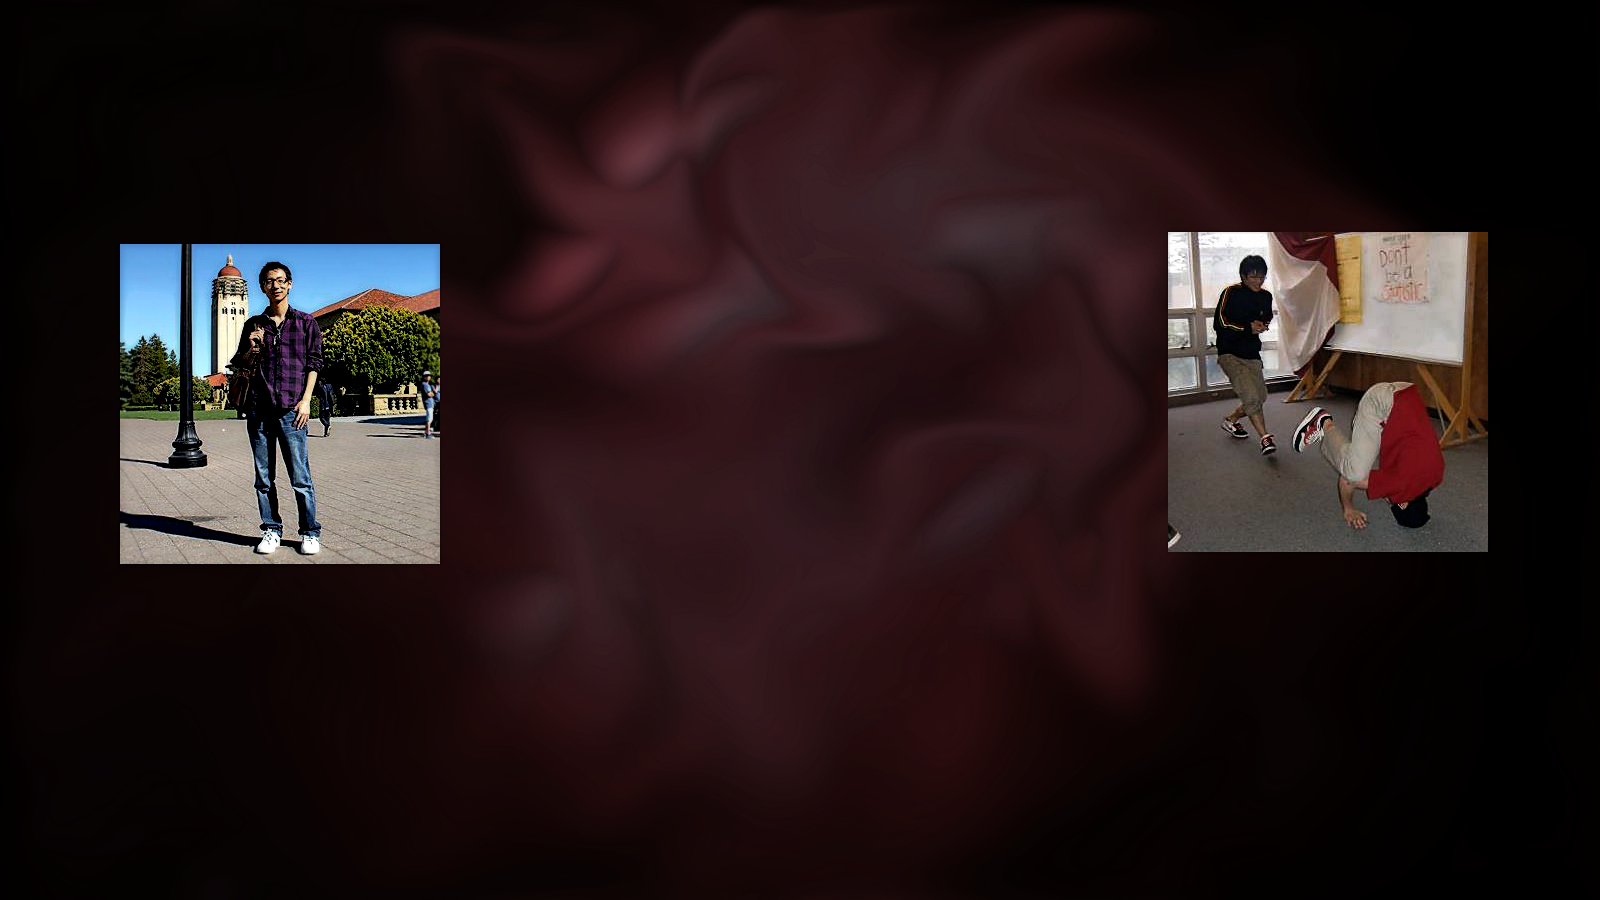
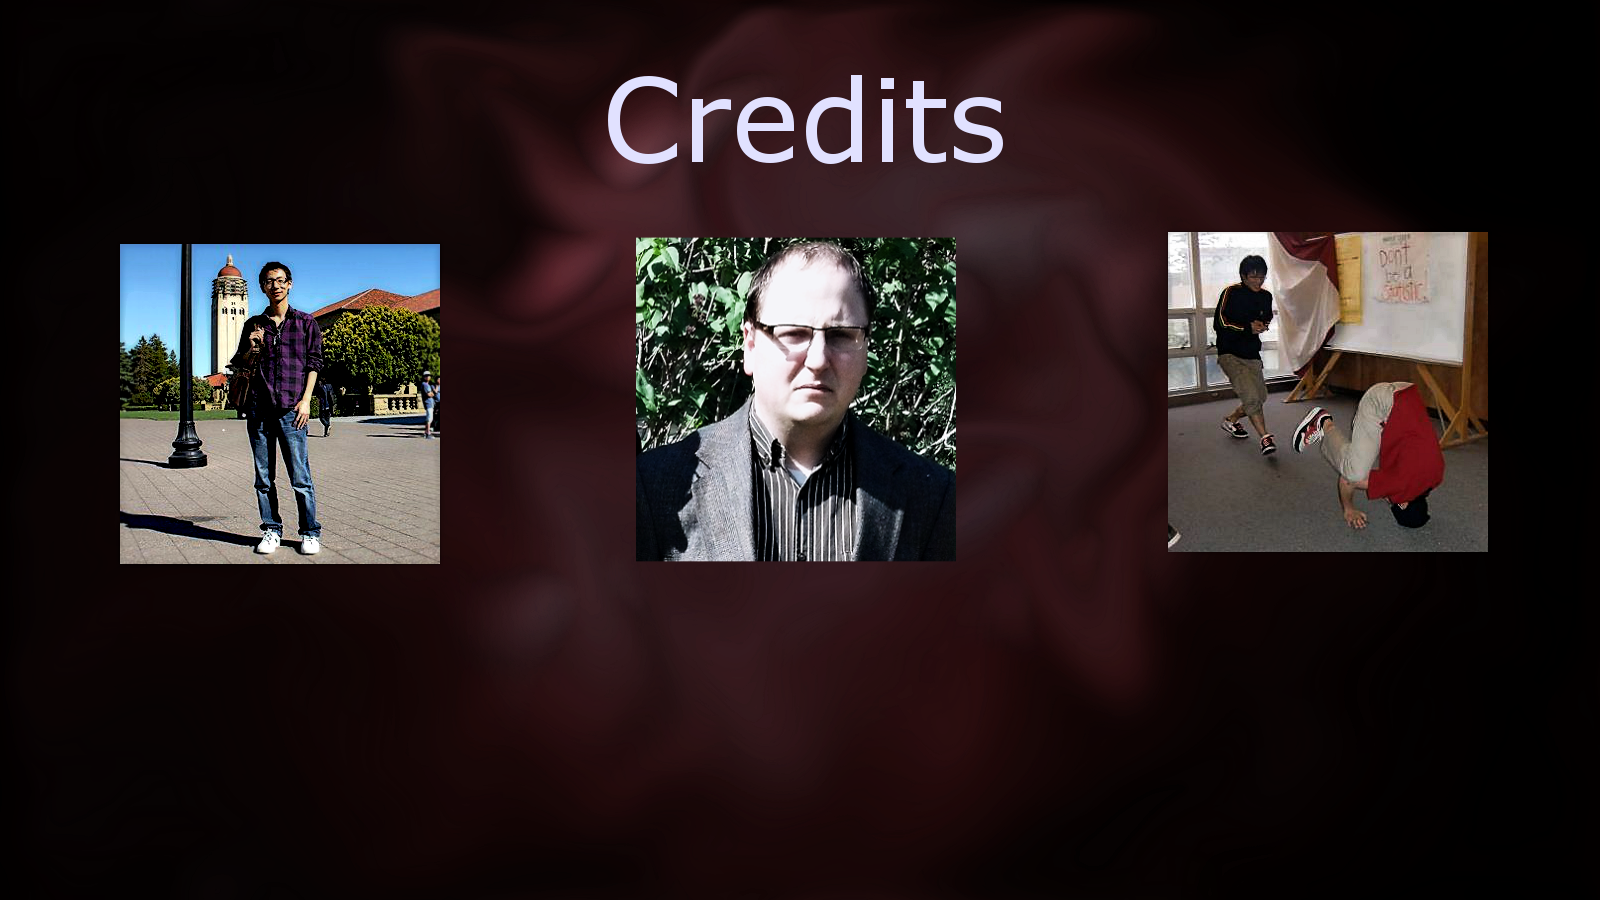
Updated Credits Screen.  Added more consistent input handling to the screens

Changed region(s): [[0.375, 0.2489, 0.625, 0.6222], [0.375, 0.0622, 0.625, 0.1867]]

diff --git a/SpaceFist/SpaceFist/State/CreditsState.cs b/SpaceFist/SpaceFist/State/CreditsState.cs
@@ -29,11 +29,22 @@ namespace SpaceFist.State
             var y      = (int) (0.63   * resolution.Height);
             var leftX  = (int) (0.1    * resolution.Width);
             var rightX = (int) (0.7325 * resolution.Width);
+            var centerX = (int)(0.5 * resolution.Width) - 103;
 
             game.SpriteBatch.Draw(game.CreditsTexture, game.GraphicsDevice.Viewport.Bounds, Color.White);
 
             game.SpriteBatch.DrawString(game.Font, "Dongcai Huang",     new Vector2(leftX, y),  Color.White);
+            game.SpriteBatch.DrawString(game.Font, "Programming", new Vector2(leftX, y + 30), Color.PeachPuff);
+            game.SpriteBatch.DrawString(game.Font, "Art Selection", new Vector2(leftX, y + 45), Color.PeachPuff);
+
             game.SpriteBatch.DrawString(game.Font, "Tatsuya Takahashi", new Vector2(rightX, y), Color.White);
+            game.SpriteBatch.DrawString(game.Font, "Programming", new Vector2(rightX + 40, y + 30), Color.PeachPuff);
+            
+            game.SpriteBatch.DrawString(game.Font, "Andrew Smith", new Vector2(centerX, y), Color.White);
+            game.SpriteBatch.DrawString(game.Font, "Programming / AI", new Vector2(centerX - 30, y + 30), Color.PeachPuff);
+            game.SpriteBatch.DrawString(game.Font, "Art Selection", new Vector2(centerX, y + 45), Color.PeachPuff);
+            game.SpriteBatch.DrawString(game.Font, "Sound Selection", new Vector2(centerX - 10, y + 60), Color.PeachPuff);
+
         }
 
         public void Update()
@@ -45,7 +56,9 @@ namespace SpaceFist.State
                 MouseState    mouse = Mouse.GetState();
                 KeyboardState keys  = Keyboard.GetState();
 
-                if (mouse.LeftButton == ButtonState.Pressed || keys.IsKeyDown(Keys.Enter))
+                if (mouse.LeftButton == ButtonState.Pressed || 
+                    keys.IsKeyDown(Keys.Enter)              || 
+                    keys.IsKeyDown(Keys.Escape))
                 {
                     game.CurrentState = game.MenuState;
                 }

diff --git a/SpaceFist/SpaceFist/State/LogoState.cs b/SpaceFist/SpaceFist/State/LogoState.cs
@@ -38,7 +38,9 @@ namespace SpaceFist.State
         {
             KeyboardState keys = Keyboard.GetState();
 
-            if (DateTime.Now.Subtract(enteredAt).Seconds > loadTime || (keys.IsKeyDown(Keys.Enter)))
+            if (DateTime.Now.Subtract(enteredAt).Seconds > loadTime || 
+                keys.IsKeyDown(Keys.Enter)                          || 
+                keys.IsKeyDown(Keys.Escape))
             {
                 game.CurrentState = game.SplashScreenState;
             }

diff --git a/SpaceFist/SpaceFist/State/SplashScreenState.cs b/SpaceFist/SpaceFist/State/SplashScreenState.cs
@@ -59,7 +59,9 @@ namespace SpaceFist.State
             // before processing input.          
             else if ( timeDiff.Milliseconds > 300)
             {
-                if (keyboardState.IsKeyDown(Keys.Enter))
+                if (keyboardState.IsKeyDown(Keys.Enter) ||
+                    keyboardState.IsKeyDown(Keys.Space) ||
+                    keyboardState.IsKeyDown(Keys.Escape))
                 {
 
                     game.CurrentState = game.MenuState;

diff --git a/SpaceFist/SpaceFist/State/InPlayState.cs b/SpaceFist/SpaceFist/State/InPlayState.cs
@@ -164,9 +164,9 @@ namespace SpaceFist.State
             {
                 KeyboardState keys = Keyboard.GetState();
 
-                if (keys.IsKeyDown(Keys.Q))
+                if (keys.IsKeyDown(Keys.Q) || keys.IsKeyDown(Keys.Escape))
                 {
-                    game.Exit();
+                    game.CurrentState = game.MenuState;
                 }
                 
                 KeepOnScreen(shipManager.Ship);

diff --git a/SpaceFist/SpaceFist/State/EndOfGameState.cs b/SpaceFist/SpaceFist/State/EndOfGameState.cs
@@ -33,7 +33,7 @@ namespace SpaceFist.State
         {
             KeyboardState keys = Keyboard.GetState();
 
-            if (keys.IsKeyDown(Keys.Enter))
+            if (keys.IsKeyDown(Keys.Enter) || keys.IsKeyDown(Keys.Escape))
             {
                 game.CurrentState = game.SplashScreenState;
             }

diff --git a/SpaceFist/SpaceFist/State/GameOverState.cs b/SpaceFist/SpaceFist/State/GameOverState.cs
@@ -36,7 +36,7 @@ namespace SpaceFist.State
         {
             KeyboardState keys = Keyboard.GetState();
 
-            if (keys.IsKeyDown(Keys.Enter))
+            if (keys.IsKeyDown(Keys.Enter) || keys.IsKeyDown(Keys.Escape))
             {
                 game.CurrentState = game.SplashScreenState;
             }

diff --git a/SpaceFist/SpaceFist/State/MenuState.cs b/SpaceFist/SpaceFist/State/MenuState.cs
@@ -84,6 +84,10 @@ namespace SpaceFist.State
                         game.CurrentState = game.InPlayState;
 
                     }
+                    else if(keys.IsKeyDown(Keys.Escape))
+                    {
+                        game.Exit();
+                    }
                 }
             }
         }
